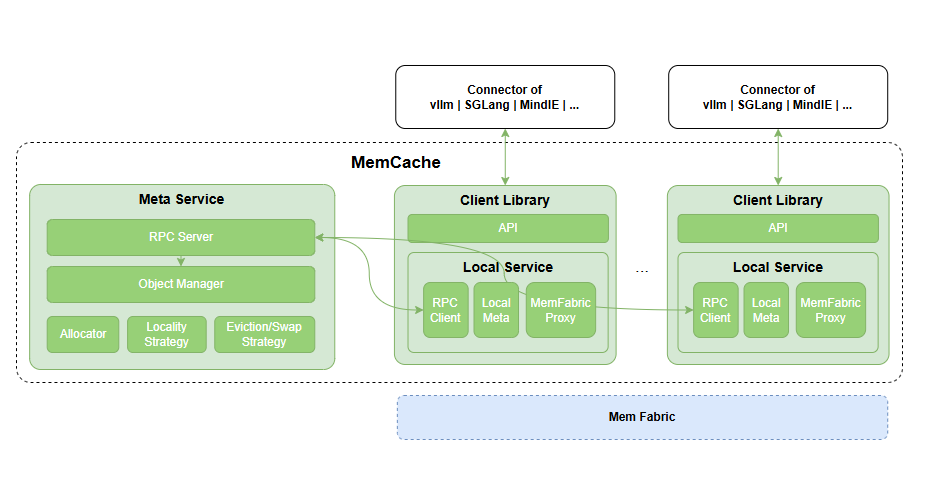
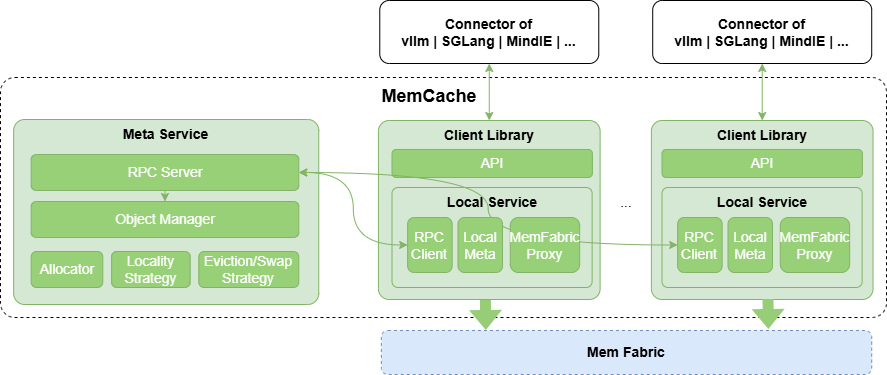
update doc
# message auto-generated for no-merge-commit merge:
!46 merge develop into develop

update doc

Created-by: yrewzjsx
Commit-by: yrewzjsx
Merged-by: chenyz6
Description: update doc

See merge request: Ascend/memcache!46

diff --git a/README.md b/README.md
@@ -10,24 +10,28 @@
 
 MemCache是针对LLM推理、GR推理场景设计的高性能分布式KVCache存储引擎，其主要特性包括：
 
-- **基于对象操作的API**：支持批量和非批量的put/get/exist/remove操作
-- **支持多副本**：单个对象支持多副本放置到不同的LocalService，默认是单副本
+- **基于对象操作的API**：支持批量和非批量的put/get/exist/remove操作，支持多层结构的KV Block读写接口。
+- **支持多副本**：单个对象支持多副本放置到不同的LocalService，默认是单副本，支持put接口指定副本数量。
 - **高带宽低时延**：使用 [MemFabric](https://gitcode.com/Ascend/memfabric_hybrid)
-  作为多级内存和多通路传输的底座，在Ascend硬件上，基于device_rdma(A2)、device_sdma(A3)、host_rdma(A2/A3)
-  等路径实现oneCopy传输，提供高带宽，低时延的读写能力。
+  作为多级内存和异构网络传输的底座，在Ascend硬件上，基于device_rdma(A2)、device_sdma(A3)、host_rdma(A2/A3)
+  等路径提供OneCopy跨机跨介质数据直接访问能力，满足高带宽，低时延的读写性能述求。
 - **支持扩缩容**：支持LocalService动态加入和移除
-- **HA能力**：在K8S集群中，MetaService支持多活能力，提供尽力而为的HA能力。
-![memcache_architecture.png](./doc/source/memcache_architecture.png)
+- **HA能力**：在K8S集群中，MetaService支持多活能力，支持元数据恢复，提供尽力而为的HA能力。
+<div align="center">
+  <img src="./doc/source/memcache_architecture.png" alt="architecture">
+</div>
 
 ## 🧩核心组件
 
-MemCache包含LocalService和MetaService两大核心模块，基于MemFabric构建能力。
+MemCache包含LocalService和MetaService两大核心组件：
 
-- **MetaService**：负责管理整个集群的内存池空间分配和元数据管理，并处理LocalService的加入与退出。MetaService作为独立进程运行，提供两种启动方式：python API启动；二进制启动，详见安装部署章节。
-MetaService支持两种部署形态：
-  - **1、单点模式**：MetaService由单个进程组成，部署方式简单，但存在单点故障的问题。如果MetaService进程崩溃或无法访问，系统将无法继续提供服务，直至重新恢复为止。
-  - **2、HA模式**：该模式基于K8S的的ClusterIP
-    Service和Lease资源构建，部署较为复杂，会部署多个MetaService进程实例，实现多活高可用。部署详见 [MetaService HA](./doc/memcache_metaservice_HA.md)
+- **MetaService**：
+  - 负责管理整个集群中内存池空间的分配和管理，处理LocalService的加入与退出。
+  - MetaService作为独立进程运行，提供两种启动方式：python API启动；二进制启动，详见 [安装部署](./doc/build.md)
+  - MetaService支持两种部署形态：
+  ***1、单点模式***：MetaService由单个进程组成，部署方式简单，但存在单点故障的问题。如果MetaService进程崩溃或无法访问，系统将无法继续提供服务，直至重新恢复为止。
+  ***2、HA模式***：该模式基于K8S的的ClusterIP Service和Lease资源构建，部署较为复杂，该模式会部署多个MetaService进程实例，实现多活高可用。部署详见 [MetaService HA](./doc/memcache_metaservice_HA.md)      
+                
 
 - **LocalService**：负责承担如下功能：
   - **客户端**：作为客户端，以whl/so形式作为共享库被应用进程加载调用API
@@ -36,18 +40,23 @@ MetaService支持两种部署形态：
 
 ## 🔥性能表现
 
-MemCache核心能力是提供大容量内存池和高性能的H2D、D2H、**D2RH、RH2D**
-数据访问能力，由于MemCache以 [MemFabric](https://gitcode.com/Ascend/memfabric_hybrid)
-作为池化底座，所以支持RH2D、D2RH等跨机一跳访问能力，下图为RH2D示意图。
-![memcache_rh2d.png](./doc/source/memcache_rh2d.png)
+MemCache核心能力是提供大容量内存池和高性能的H2D、D2H、**D2RH、RH2D**数据访问能力，由于MemCache以 [MemFabric](https://gitcode.com/Ascend/memfabric_hybrid) 作为池化底座，所以支持RH2D、D2RH等OneCopy跨机跨介质数据直接访问能力，下图为RH2D对比其他中转路径的对比示意图。
+<div align="center">
+  <img src="./doc/source/memcache_rh2d.png" alt="RH2D">
+</div>
 
+基于OneCopy跨机跨介质数据直接访问的能力，MemCache在A2/A3做了相关性能测试如下：
 模拟构造DeepSeek-R1模型KV大小的block，单个block size为：61x128K + 61x16K = 8784KB ≈ 8.57MB，共122个离散地址。
 
 - 使用2个昇腾A2节点(每节点8张卡)组成双机内存池进行读写测试性能如下：
-![memcache_a2](./doc/source/memcache_a2.png)
+<div align="center">
+  <img src="./doc/source/memcache_a2.png" alt="A2 perf">
+</div>
 
 - 使用2个昇腾A3节点(每节点8张卡16Die)组成双机内存池进行读写测试性能如下：
-![memcache_a3](./doc/source/memcache_a3.png)
+<div align="center">
+  <img src="./doc/source/memcache_a3.png" alt="A3 perf">
+</div>
 
 ## 🔍目录结构
 
@@ -80,20 +89,24 @@ MemCache核心能力是提供大容量内存池和高性能的H2D、D2H、**D2RH
 
 ## 🔜 Incoming Features
 
-以下是本项目未来计划开发以及正在开发的功能：
+➡支持中
 
-- [ ] (规划中)
-- [ ] metaservice基于restful的集群管理、数据查询、指标查询接口，对接prometheus和grafana (开发中)
-- [ ] (已完成 ✅)
+-  MetaService支持基于restful进行集群管理、数据查询、指标查询，支持对接prometheus和grafana
+-  HBM + DRAM + SSD 三级内存池
+
+✅已支持
+- DRAM 内存池
+- HBM + DRAM两级内存池
+- MetaService 高可用
+- LocalService 动态扩缩容
 
 ## 🚀快速入门
 
 请访问以下文档获取简易教程。
 
-- [构建](./doc/build.md)：介绍组件编译和安装教程。
-
+- [编译部署](./doc/build.md)：介绍组件编译和安装教程。
+- [配置文件](doc/memcache_config.md)：涉及MetaService、LocalService公共配置
 - [样例执行](./example/examples.md)：介绍如何端到端执行样例代码，包括C++和Python样例。
-
 ## 📑学习教程
 
 - [C接口](doc/mamcache_c_api.md)：C接口介绍以及C接口对应的API列表
@@ -101,7 +114,7 @@ MemCache核心能力是提供大容量内存池和高性能的H2D、D2H、**D2RH
 
 ## 📦软件硬件配套说明
 
-[MemCache Conf](doc/memcache_config.md)：MemCache将MetaService和LocalService的公共配置部分抽取为配置文件
+- MemCache软件依赖 [MemFabric](https://gitcode.com/Ascend/memfabric_hybrid)，相关配套与MemFabric相同
 
 ## 📝相关信息
 

diff --git a/doc/build.md b/doc/build.md
@@ -10,17 +10,7 @@
 - python 3.11.10
 - pybind11 2.10.3
 
-#### (编译选择CANN依赖时)需要NPU固件驱动和CANN包
-
-run包只能安装到npu环境上，且依赖于NPU固件驱动和CANN包，具体版本依赖详见下面的软件硬件配套说明
-
-请在环境上提前安装NPU固件驱动和CANN包([环境安装参考链接](https://www.hiascend.com/document/detail/zh/CANNCommunityEdition/81RC1alpha002/softwareinst/instg/instg_0000.html))
-
-安装完成后需要配置CANN环境变量([参考安装Toolkit开发套件包的第三步配置环境变量](https://www.hiascend.com/document/detail/zh/CANNCommunityEdition/81RC1alpha002/softwareinst/instg/instg_0008.html))
-
 ## 编译
-
-MemCache编译不依赖CANN和HDK.
 
 1. 下载代码
 
@@ -168,12 +158,14 @@ root@localhost:/# tree /usr/local/lib/python3.11/site-packages/memcache_hybrid
     
 ```
 
-在安装过程中，会默认尝试安装适配当前环境的MemCache的whl包，如果未安装，则在使用python接口前需要用户手动安装(安装包路径参考上面目录结构)
+在安装过程中，会默认尝试安装适配当前环境的MemCache的whl包，如果未安装，则在使用python接口前需要用户手动安装(安装包路径参考上面目录结构中的whl包路径)
 
 ## 运行服务
 ### MetaService
-* **python形式**：
-  *以下均以python311版本whl包（memcache_hybrid-1.0.0-cp311-cp311-linux_aarch64.whl）为例*
+
+ 👆 NOTE：运行前需要根据 [MetaService配置项](./memcache_config.md) 对配置文件 /usr/local/memcache_hybrid/latest/config/mmc-meta.conf 进行相关配置，该文件可以放置到任意可访问的路径
+
+* **python形式**：*以下均以python311版本whl包（memcache_hybrid-1.0.0-cp311-cp311-linux_aarch64.whl）为例*
 ```
 1、安装whl包（如在安装run包过程中，已安装whl包，此步骤可省略）
 pip install memcache_hybrid-1.0.0-cp311-cp311-linux_aarch64.whl
@@ -198,6 +190,7 @@ export MMC_META_CONFIG_PATH=/usr/local/memcache_hybrid/latest/config/mmc-meta.co
 ```
 
 ### LocalService
+ 👆 NOTE：运行前需要根据 [LocalService配置项](./memcache_config.md) 对配置文件 /usr/local/memcache_hybrid/latest/config/mmc-local.conf 进行相关配置，该文件可以放置到任意可访问的路径
 * **whl（python）**：
 ```
 1、安装whl包（如在安装run包过程中，已安装whl包，此步骤可省略）
@@ -220,6 +213,9 @@ export LD_LIBRARY_PATH=$LD_LIBRARY_PATH:${libmf_memcache.so path}
 
 注：如果其所在路径已经在 PATH 或 LD_LIBRARY_PATH，则无需此步骤
 
-3、调用API
+3、设置配置文件环境变量
+export MMC_LOCAL_CONFIG_PATH=/usr/local/memcache_hybrid/latest/config/mmc-local.conf
+
+4、调用相关API
 
 ```
